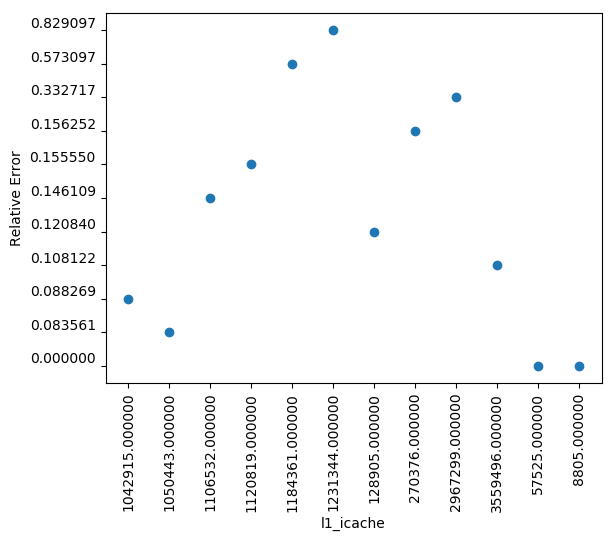
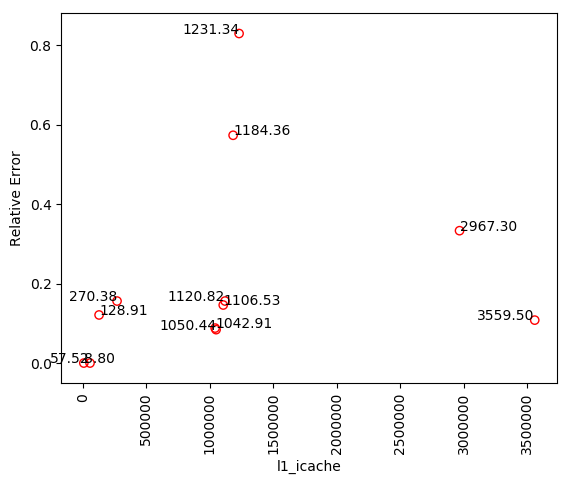
trying to graph things

diff --git a/fifth_data/eqn2/graphing/graph_relative_error.py b/fifth_data/eqn2/graphing/graph_relative_error.py
@@ -9,15 +9,32 @@ import matplotlib.pyplot as plt
 import numpy as np
 import sys
 
-def graph_relative_error(name, errors, field_data):
-    plt.xlabel(name)
-    plt.ylabel("Relative Error")
+# def graph_relative_error(axs, name, errors, field_data, row, col, normalize_by):
+def graph_relative_error(name, errors, field_data, row, col, normalize_by):
+#     ax = axs[row,col]
+    fig, ax = plt.subplots(nrows=1, ncols=1)
+    ax.set_xlabel(name)
+    ax.set_ylabel("Relative Error")
+
+    lists = list(zip(field_data,errors))
+    lists.sort()
+    new_x, new_y = list(zip(*lists))
+
+#     print(new_x)
+#     print(new_y)
+    count = 0
+    ax.scatter(new_x, new_y, color="none", edgecolor="red")
+    for i, j in zip(new_x, new_y): 
+        if count % 2 == 0:
+            ax.annotate("{0:.2f}".format((i/normalize_by)), (i,j), ha="left",
+            fontsize=10)
+        else:
+            ax.annotate("{0:.2f}".format((i/normalize_by)), (i,j), ha="right",
+            fontsize=10)
+        count+=1
+#     ax.set_xscale("log")
     plt.xticks(rotation=90)
-
-#     plt.plot(field_data, errors, linestyle="None")
-    plt.scatter(field_data,errors)
     plt.savefig(name + ".png", bbox_inches='tight')
-
 
 def main():
     names=[]
@@ -37,18 +54,34 @@ def main():
         with open(sys.argv[i]) as f:
             for line in f:
                 str_list = line.split(",")
+                str_list[8] = str_list[8][:-1]
 
                 names.append(str_list[0])
-                l1_icache.append(str_list[1])
-                cycles.append(str_list[2])
-                ipc.append(str_list[3])
-                l2.append(str_list[4])
-                tlb_data.append(str_list[5])
-                l1_dcache.append(str_list[6])
-                tlb_ins.append(str_list[7])
-                error.append(str_list[8])
+                l1_icache.append(int(str_list[1]))
+                cycles.append(int(str_list[2]))
+                ipc.append(float(str_list[3]))
+                l2.append(int(str_list[4]))
+                tlb_data.append(int(str_list[5]))
+                l1_dcache.append(int(str_list[6]))
+                tlb_ins.append(int(str_list[7]))
+                error.append(float(str_list[8]))
 
-    graph_relative_error("l1_icache",error, l1_icache)
+    fig, ax = plt.subplots(nrows=2, ncols=4)
+#     fig, ax = plt.subplots(nrows=1, ncols=1)
+#     graph_relative_error(ax, "l1_icache",error, l1_icache,0,0,1000)
+#     graph_relative_error(ax, "cycles",error, cycles,0,1,10000000)
+#     graph_relative_error(ax, "ipc",error, ipc,0,2,1)
+#     graph_relative_error(ax, "l2",error, l2,0,3,100000)
+#     graph_relative_error(ax, "tlb_data",error, tlb_data,1,0,10000)
+#     graph_relative_error(ax, "l1_dcache",error, l1_dcache,1,1,100000)
+#     graph_relative_error(ax, "tlb_ins",error, tlb_ins,1,2,100000)
+    graph_relative_error("l1_icache",error, l1_icache,0,0,1000)
+    graph_relative_error("cycles",error, cycles,0,1,10000000)
+    graph_relative_error("ipc",error, ipc,0,2,1)
+    graph_relative_error("l2",error, l2,0,3,100000)
+    graph_relative_error("tlb_data",error, tlb_data,1,0,10000)
+    graph_relative_error("l1_dcache",error, l1_dcache,1,1,100000)
+    graph_relative_error("tlb_ins",error, tlb_ins,1,2,100000)
 
 main()
 

diff --git a/fifth_data/eqn2/utils/calc_error.c b/fifth_data/eqn2/utils/calc_error.c
@@ -10,7 +10,7 @@ int print_graphing_info(char* graph_fname, char name[20], double
         return -1;
     }
 
-    fprintf(fptr,"%s,%f,%f,%f,%f,%f,%f,%f,%f\n",name, inputs[L1_ICACHE],
+    fprintf(fptr,"%s,%.0f,%.0f,%.2f,%.0f,%.0f,%.0f,%.0f,%.3f\n",name, inputs[L1_ICACHE],
         inputs[CYCLES], inputs[IPC], inputs[L2], inputs[TLB_DATA],
         inputs[L1_DCACHE], inputs[TLB_INS], rel_error);
 
@@ -79,8 +79,9 @@ int get_input(char name[20], double inputs[INPUT_SIZE]) {
     fgets(input, 20, stdin);
 
     inputs[L2] = atof(input);
-
+    
     fgets(input, 20, stdin);
+
 
     inputs[TLB_DATA] = atof(input);
 
